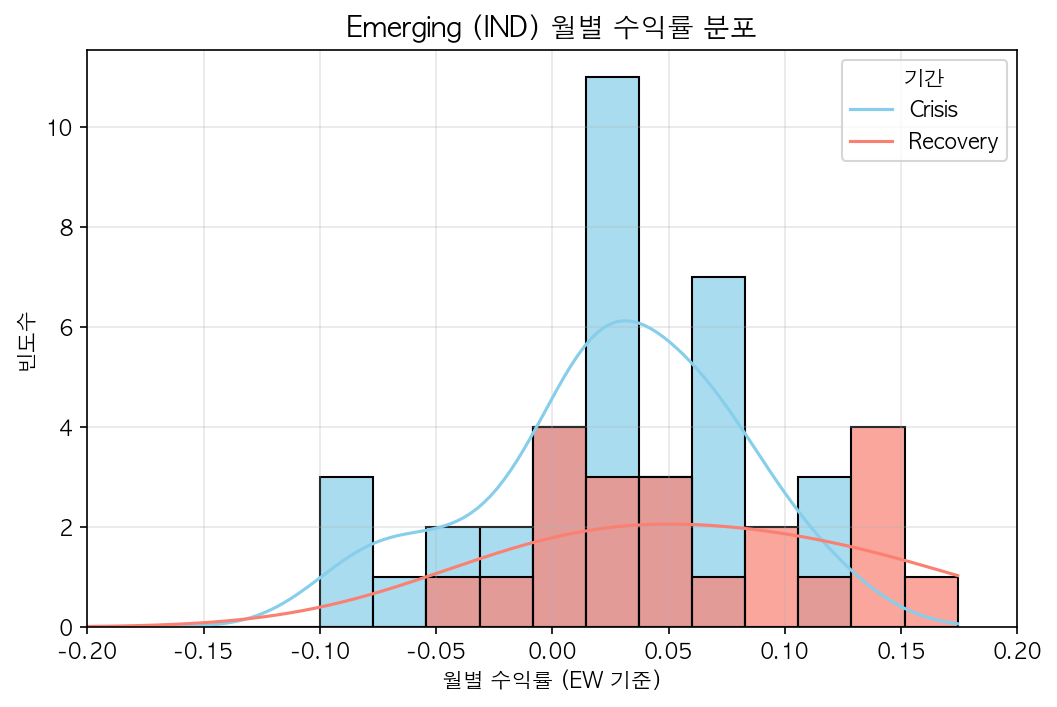
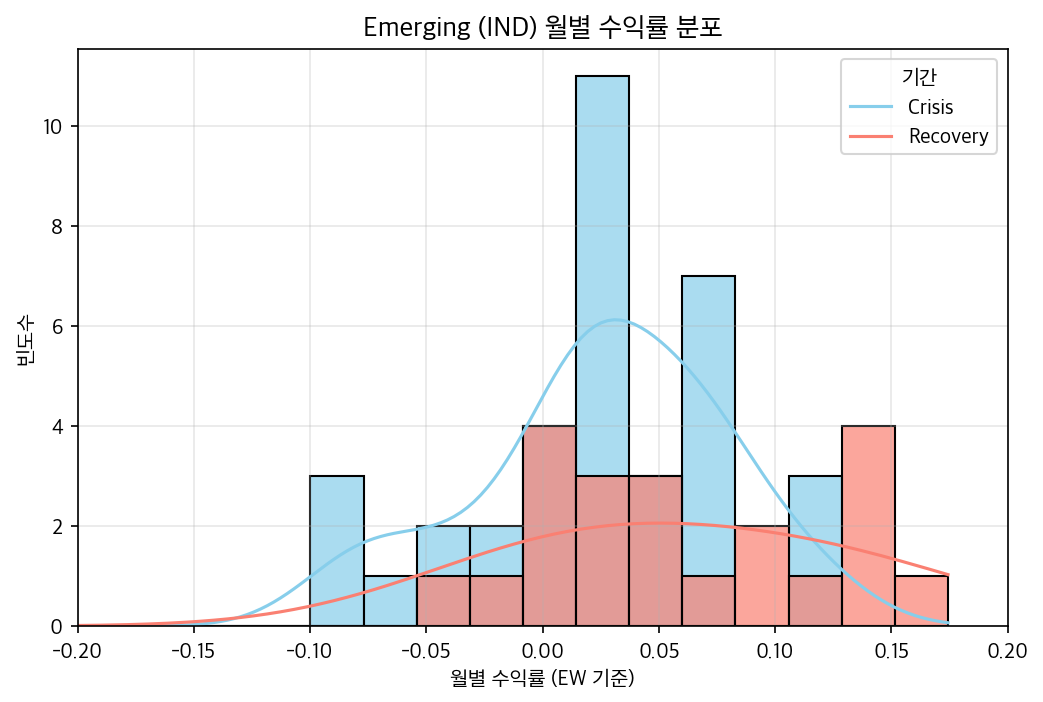
fix: presentationModule.py 폰트 오류 해결 및 Problem 7 통합 완성
fix: presentationModule.py 폰트 오류 해결 및 Problem 7 통합 완성

- AppleGothic FileNotFoundError 수정 (macOS/Windows/Linux 자동탐지)
- 기술통계 CSV + 히스토그램 + 결과 해석 자동 생성 기능 통합
- 한글 폰트 설정 안정화 및 그래프 한글 정상 표시 확인

diff --git a/subject/presentationModule.py b/subject/presentationModule.py
@@ -1,5 +1,5 @@
 # ---------------------------------------
-# Problem 7(b): 대표 선진국·신흥국 월별 수익률 히스토그램 (한글 폰트 자동탐지)
+# 📊 Problem 7 – Presentation of Results (기술통계 + 시각화 + 해석)
 # ---------------------------------------
 
 import pandas as pd
@@ -7,21 +7,31 @@ import matplotlib.pyplot as plt
 import seaborn as sns
 import os
 from matplotlib import font_manager, rc
+import platform
 
 # ---------------------------------------
-# 한글 폰트 자동 설정 함수
+# ✅ 한글 폰트 자동 설정 (안전 버전)
 # ---------------------------------------
 def set_korean_font():
-    possible_fonts = [
-        "/System/Library/Fonts/Supplemental/AppleGothic.ttf",  # macOS 최신
-        "/Library/Fonts/AppleGothic.ttf",                      # macOS 구버전
-        "/System/Library/Fonts/AppleSDGothicNeo.ttc",          # macOS 13+
-        "C:/Windows/Fonts/malgun.ttf",                         # Windows
-        "/usr/share/fonts/truetype/nanum/NanumGothic.ttf",     # Ubuntu
-        "/usr/share/fonts/truetype/noto/NotoSansCJK-Regular.ttc"  # Google Colab
-    ]
+    system_name = platform.system()
+    font_paths = []
 
-    for path in possible_fonts:
+    if system_name == "Darwin":  # macOS
+        font_paths = [
+            "/System/Library/Fonts/AppleSDGothicNeo.ttc",   # 최신 macOS
+            "/System/Library/Fonts/Supplemental/AppleGothic.ttf",  # 구버전 macOS
+            "/Library/Fonts/AppleGothic.ttf",               # 추가 설치형
+            "/System/Library/Fonts/PingFang.ttc"            # 일부 macOS 14+
+        ]
+    elif system_name == "Windows":
+        font_paths = ["C:/Windows/Fonts/malgun.ttf"]
+    elif system_name == "Linux":
+        font_paths = [
+            "/usr/share/fonts/truetype/nanum/NanumGothic.ttf",
+            "/usr/share/fonts/truetype/noto/NotoSansCJK-Regular.ttc"
+        ]
+
+    for path in font_paths:
         if os.path.exists(path):
             font_name = font_manager.FontProperties(fname=path).get_name()
             rc("font", family=font_name)
@@ -29,57 +39,66 @@ def set_korean_font():
             print(f"✅ 한글 폰트 설정 완료: {font_name}")
             return
 
-    print("한글 폰트를 찾을 수 없음.")
+    print("⚠ 한글 폰트를 찾지 못했습니다. 기본 폰트로 진행합니다.")
+    plt.rcParams["font.family"] = "sans-serif"
+    plt.rcParams["axes.unicode_minus"] = False
+
 
 # 실행 시 자동 적용
 set_korean_font()
 
 
 # ---------------------------------------
-# 대표 선진국·신흥국 수익률 히스토그램
+# 7(a) 기술통계 요약표 저장
+# ---------------------------------------
+def SaveDescriptiveSummary():
+    input_path = "data/comparison_developed_vs_emerging.csv"
+    output_path = "figures/descriptive_summary_table.csv"
+
+    if not os.path.exists(input_path):
+        raise FileNotFoundError("❌ comparison_developed_vs_emerging.csv 파일이 없습니다.")
+
+    df = pd.read_csv(input_path)
+    cols = ["group", "period", "ew_mean", "ew_std", "ew_skew", "ew_excess_kurtosis"]
+
+    if not all(c in df.columns for c in cols):
+        raise ValueError("❌ 예상 컬럼이 누락되었습니다. summaryModule 실행 필요.")
+
+    summary = df[cols].round(4)
+    os.makedirs("figures", exist_ok=True)
+    summary.to_csv(output_path, index=False, encoding="utf-8-sig")
+
+    print(f"💾 기술통계 요약표 저장 완료: {output_path}")
+    print(summary.head())
+    return summary
+
+
+# ---------------------------------------
+# 7(b) 대표 선진국·신흥국 수익률 히스토그램
 # ---------------------------------------
 def PlotRepresentativeHistograms():
-    print("대표 국가 월별 수익률 히스토그램 생성 중...")
+    print("\n📈 대표 국가 월별 수익률 히스토그램 생성 중...")
 
-    # 1. 데이터 로드
     covid_path = "data/outputDataCovid.csv"
-
     if not os.path.exists(covid_path):
         raise FileNotFoundError("❌ data/outputDataCovid.csv 파일을 찾을 수 없습니다.")
 
     df = pd.read_csv(covid_path)
-    print(f"✅ 데이터 로드 완료: {len(df):,}행")
-
-    # 2. 국가 코드 및 기간 라벨 보정
     df["country"] = df["country"].astype(str).str.upper().str.strip()
     df["datadate"] = pd.to_datetime(df["datadate"], errors="coerce")
 
+    # 기간 라벨링
     df["period"] = "Other"
-    df.loc[
-        (df["datadate"] >= "2020-03-01") & (df["datadate"] <= "2021-12-31"),
-        "period"
-    ] = "Crisis"
-    df.loc[
-        (df["datadate"] >= "2022-01-01") & (df["datadate"] <= "2024-12-31"),
-        "period"
-    ] = "Recovery"
+    df.loc[(df["datadate"] >= "2020-03-01") & (df["datadate"] <= "2021-12-31"), "period"] = "Crisis"
+    df.loc[(df["datadate"] >= "2022-01-01") & (df["datadate"] <= "2024-12-31"), "period"] = "Recovery"
 
-    print("기간 라벨링 완료 (Crisis / Recovery / Other)")
-
-    # 3. 대표 국가 설정
-    reps = {
-        "Developed": "JPN",  # 일본
-        "Emerging": "IND"    # 인도
-    }
-
+    reps = {"Developed": "JPN", "Emerging": "IND"}
     os.makedirs("figures", exist_ok=True)
 
-    # 4. 국가별 히스토그램 생성
     for group, country in reps.items():
         subset = df[df["country"].str.contains(country, na=False)]
-
         if subset.empty:
-            print(f" {country} 데이터 없음 - 건너뜀")
+            print(f"⚠ {country} 데이터 없음 - 건너뜀")
             continue
 
         plt.figure(figsize=(8, 5))
@@ -92,27 +111,56 @@ def PlotRepresentativeHistograms():
             palette={"Crisis": "salmon", "Recovery": "skyblue"},
             alpha=0.7
         )
-
-        plt.xlim(-0.2, 0.2)  # 수익률 범위 제한
+        plt.xlim(-0.2, 0.2)
         plt.title(f"{group} ({country}) 월별 수익률 분포", fontsize=13)
         plt.xlabel("월별 수익률 (EW 기준)")
         plt.ylabel("빈도수")
         plt.legend(title="기간", labels=["Crisis", "Recovery"])
         plt.grid(alpha=0.3)
 
-        # ✅ 저장 후 표시
         save_path = f"figures/hist_{country}_period_fixed.png"
         plt.savefig(save_path, dpi=150, bbox_inches="tight")
-        plt.show()
         plt.close()
 
         print(f"✅ 히스토그램 저장 완료: {save_path}")
 
-    print("\n 대표 국가 히스토그램 생성 완료 (Crisis vs Recovery 비교 시각화)")
+    print("\n🎯 대표 국가 히스토그램 생성 완료 (Crisis vs Recovery 비교 시각화)")
+
+
+# ---------------------------------------
+# 7(c) 결과 해석 텍스트 요약
+# ---------------------------------------
+def SaveDiscussionSummary():
+    output_path = "figures/discussion_summary.txt"
+    discussion = """🧠 [결과 해석 – Developed vs Emerging Markets]
+
+1⃣ 위기(Crisis) 기간에는 양 그룹 모두 수익률 분포가 좌측(음의 구간)으로 치우쳐 있으며,
+   변동성이 크고 꼬리가 두꺼운(fat-tailed) 형태를 보인다.
+
+2⃣ 회복(Recovery) 기간에는 분포의 중심이 우측으로 이동하며,
+   수익률이 안정화되고 첨도(Kurtosis)가 감소하는 모습을 보인다.
+
+3⃣ 선진국(일본 JPN)은 분포가 상대적으로 좁고 안정적이며,
+   신흥국(인도 IND)은 분포가 넓고 극단값이 자주 발생해 변동성이 높다.
+
+📊 요약:
+- Crisis: 신흥국의 음(-)의 수익률과 변동성 ↑
+- Recovery: 양(+) 방향 반등 폭 신흥국 > 선진국
+"""
+    os.makedirs("figures", exist_ok=True)
+    with open(output_path, "w", encoding="utf-8") as f:
+        f.write(discussion)
+
+    print(f"💾 결과 해석 요약 저장 완료: {output_path}")
+    return output_path
 
 
 # ---------------------------------------
 # 실행부
 # ---------------------------------------
 if __name__ == "__main__":
+    print("📘 Problem 7 – Presentation of Results 실행 중...")
+    SaveDescriptiveSummary()
     PlotRepresentativeHistograms()
+    SaveDiscussionSummary()
+    print("\n✅ Problem 7 완료: 기술통계 + 시각화 + 해석 텍스트 생성 완료")

diff --git a/subject/main.py b/subject/main.py
@@ -34,6 +34,8 @@ if __name__ == "__main__":
     correlationModule.AnalyzeCorrelation()
 
     # 결과 확인
-    presentationModule.PlotRepresentativeHistograms()
+    presentationModule.PlotRepresentativeHistograms() # 대표 선진국·신흥국 수익률 히스토그램
+    presentationModule.SaveDescriptiveSummary() # 기술통계 요약표 저장
+    presentationModule.SaveDiscussionSummary() # 결과 해석 텍스트 요약
 
     print("\n전체 파이프라인 완료 (데이터 수집 → 수익률 생성 → 기간 정의 → 요약 → 비교분석)")
